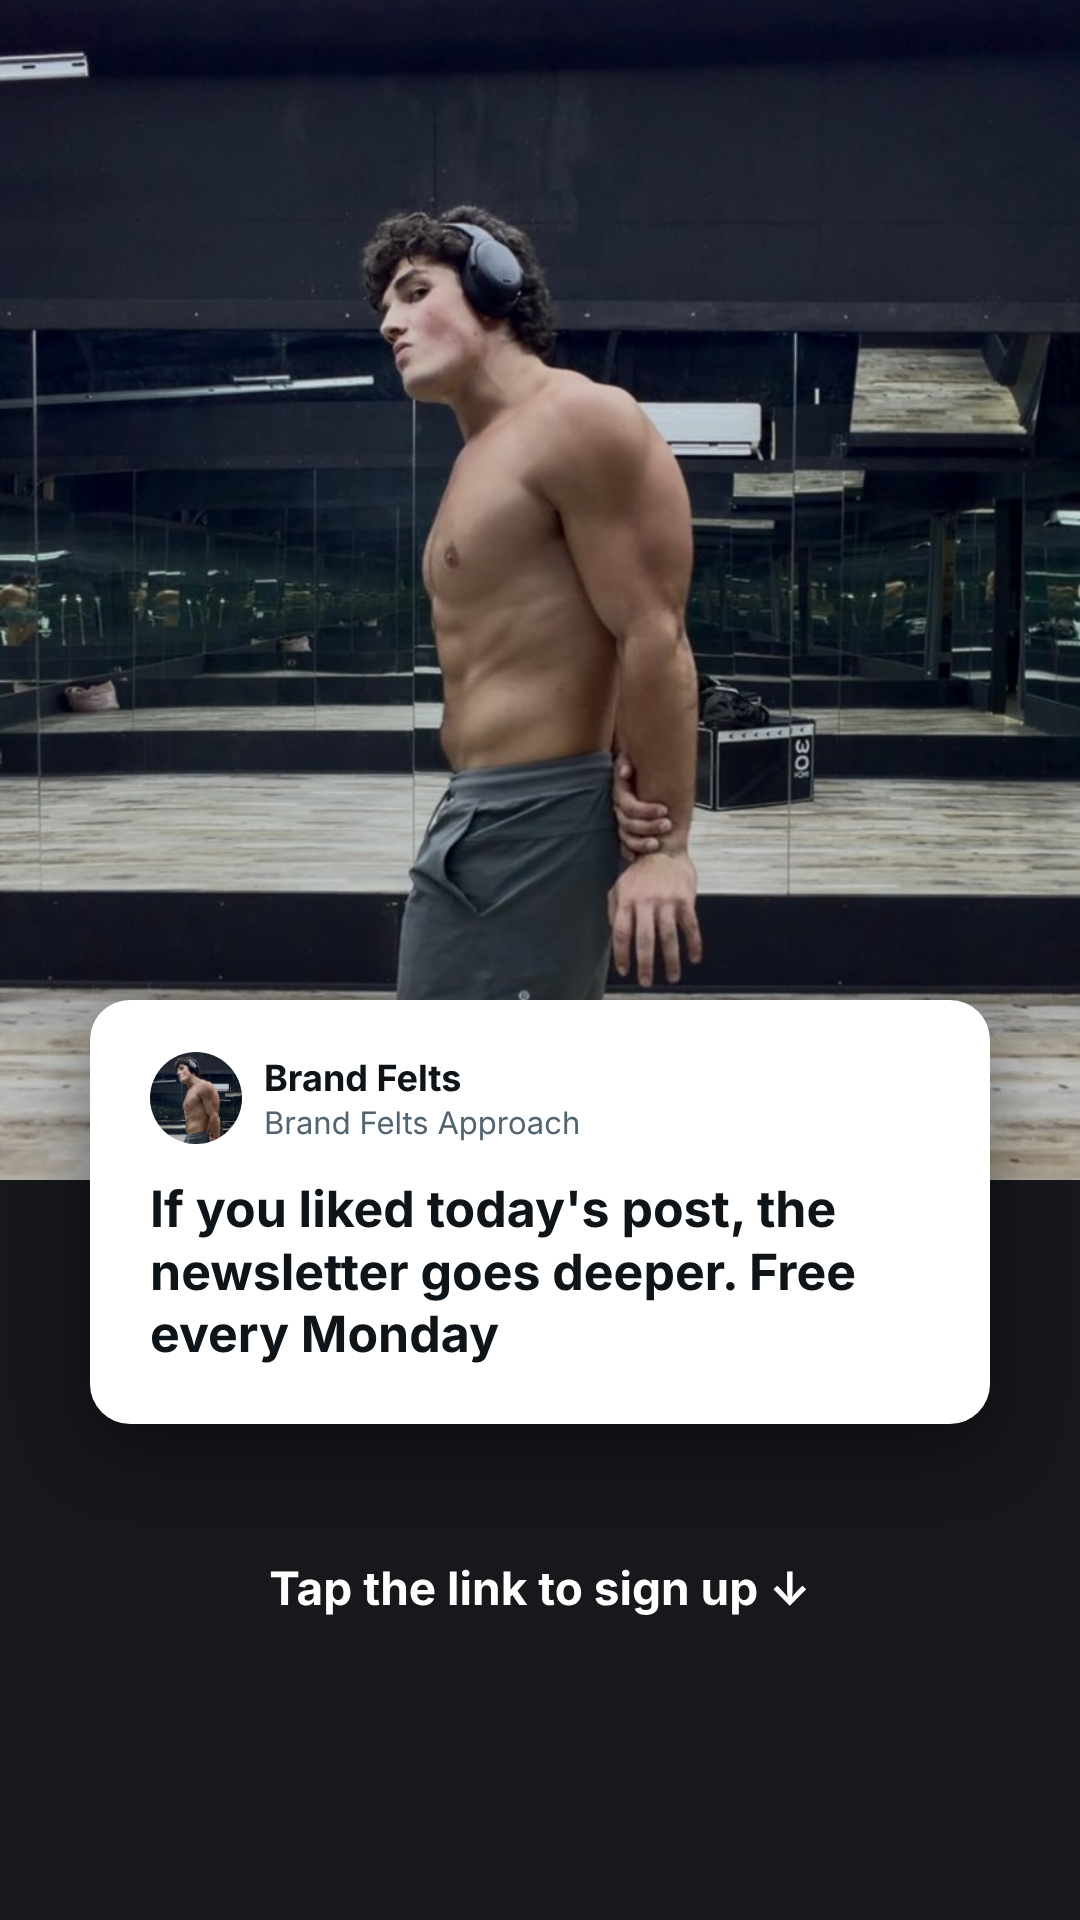
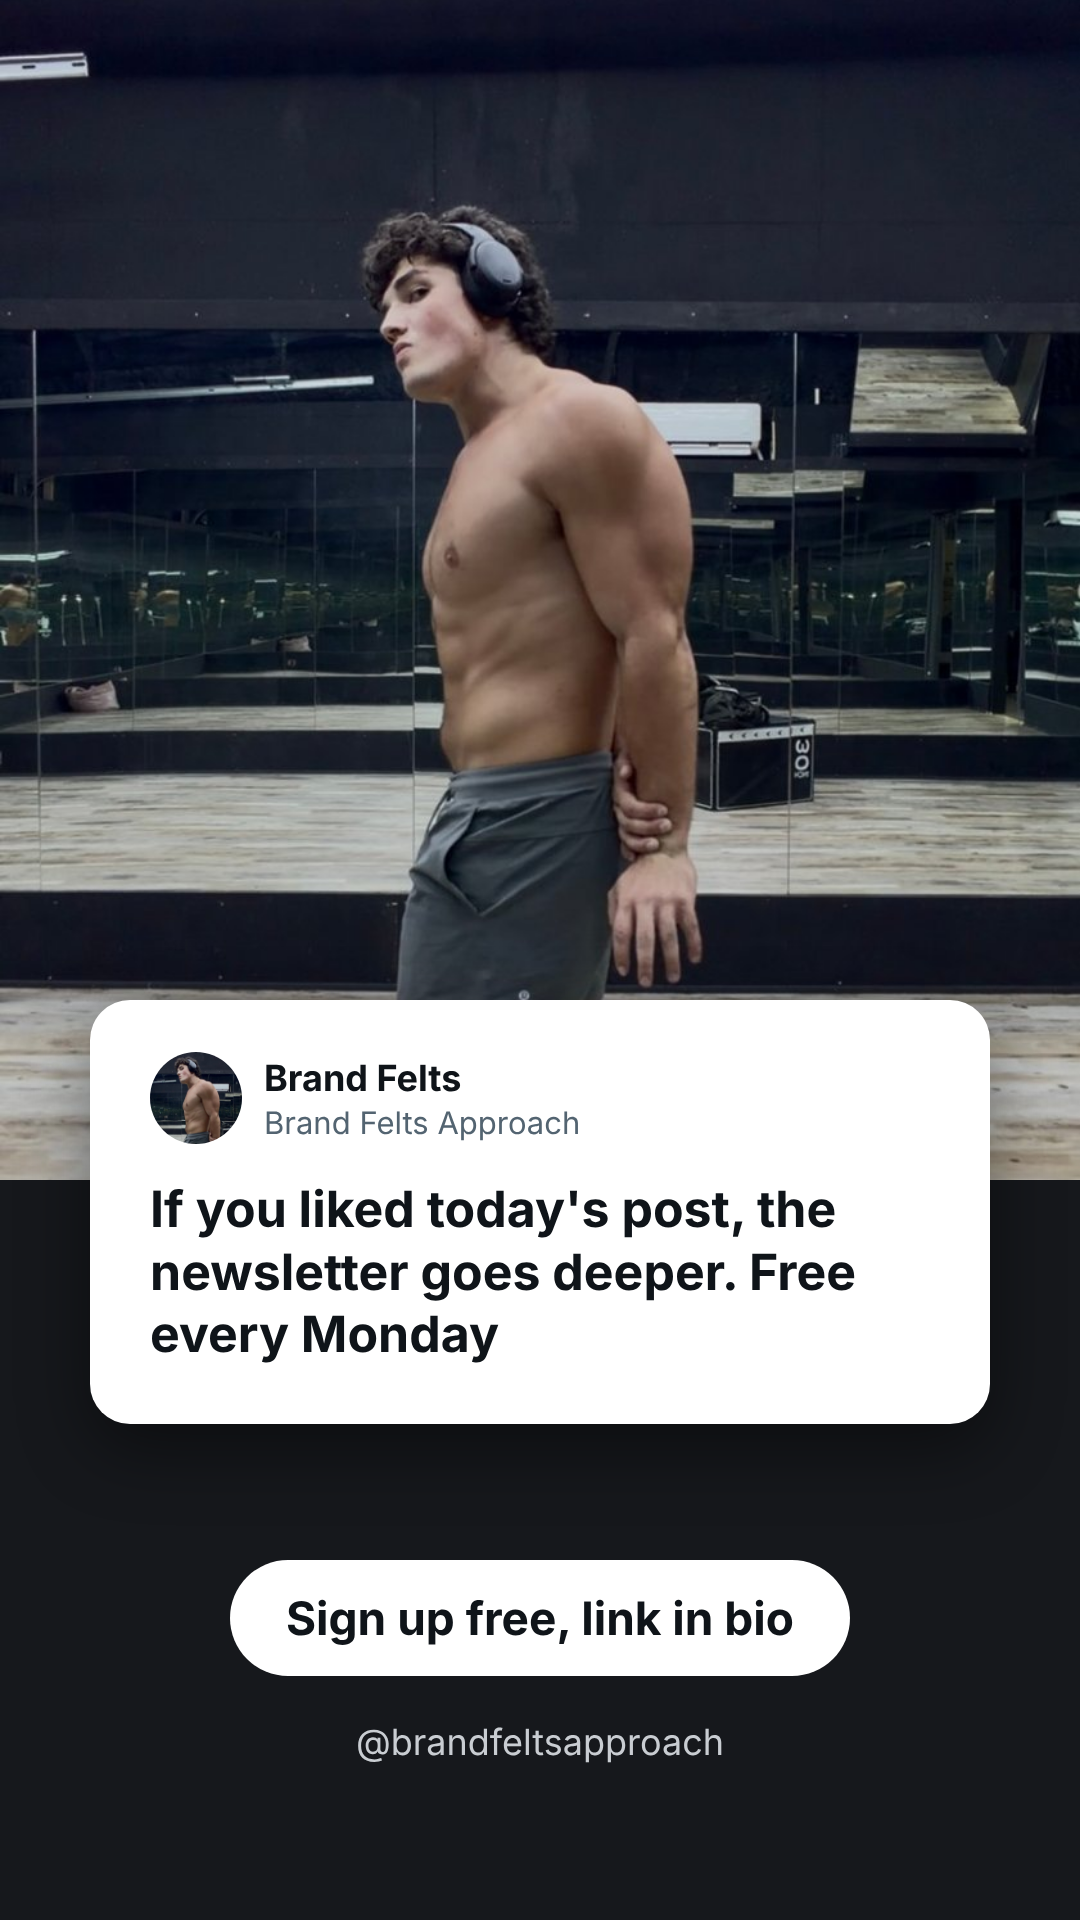
Stories: link in bio CTA, no sticker

Changed region(s): [[0.2139, 0.8125, 0.7944, 0.875], [0.3972, 0.9062, 0.6417, 0.9375], [0.3361, 0.9062, 0.3667, 0.9375]]

diff --git a/tools/make_stories.py b/tools/make_stories.py
@@ -1,6 +1,6 @@
 """Render the newsletter story variants (1080x1920) into stories/story1.png ... storyN.png.
 Each story: a photo of Brand on top, the tweet-style card overlapping it, then the sign-up prompt.
-The bottom area is left clear for Instagram's link sticker."""
+Posted automatically, so the CTA points to the link in bio (no sticker)."""
 import pathlib, html
 from playwright.sync_api import sync_playwright
 
@@ -29,7 +29,8 @@ def page(text, photo, pos):
 <div style="display:flex;flex-direction:column;gap:4px"><div style="font-size:36px;font-weight:700">Brand Felts</div><div style="font-size:31px;color:#536471">Brand Felts Approach</div></div></div>
 <p style="margin:34px 0 0 0;font-size:50px;line-height:1.25;font-weight:700">{t}</p>
 </div>
-<div style="position:absolute;left:0;right:0;top:1560px;text-align:center;color:#FFFFFF;font-size:46px;font-weight:700">Tap the link to sign up ↓</div>
+<div style="position:absolute;left:0;right:0;top:1560px;display:flex;justify-content:center"><div style="background:#FFFFFF;color:#0F1419;border-radius:999px;padding:30px 56px;font-size:46px;font-weight:700">Sign up free, link in bio</div></div>
+<div style="position:absolute;left:0;right:0;top:1720px;text-align:center;color:#C9CDD2;font-size:36px">@brandfeltsapproach</div>
 </div></body></html>"""
 
 out = ROOT / "stories"; out.mkdir(exist_ok=True)
